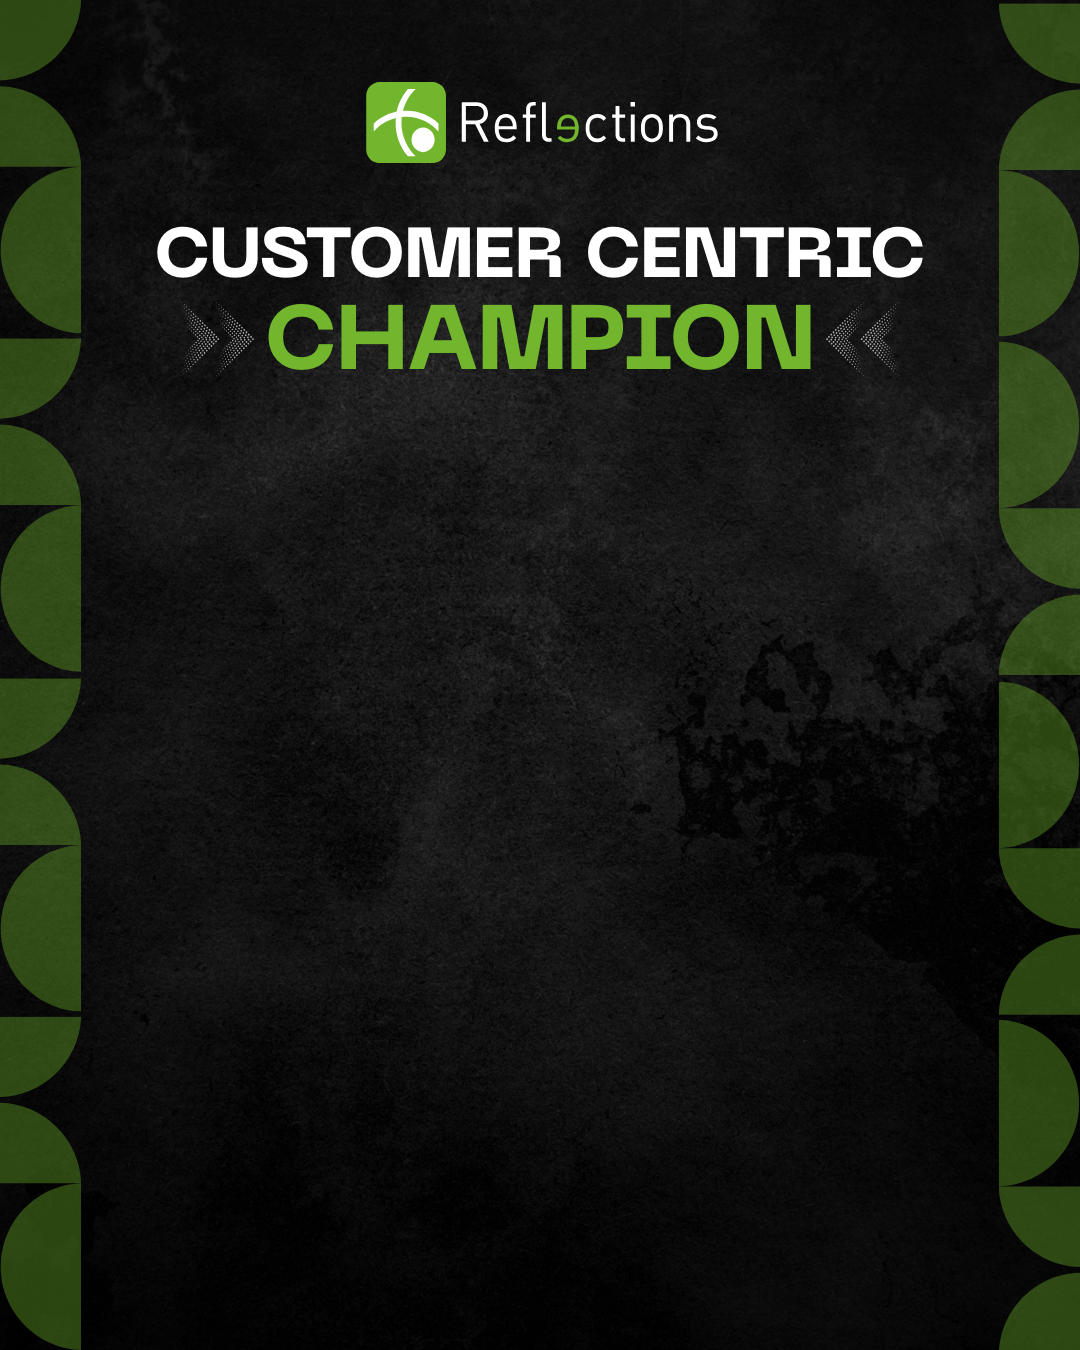
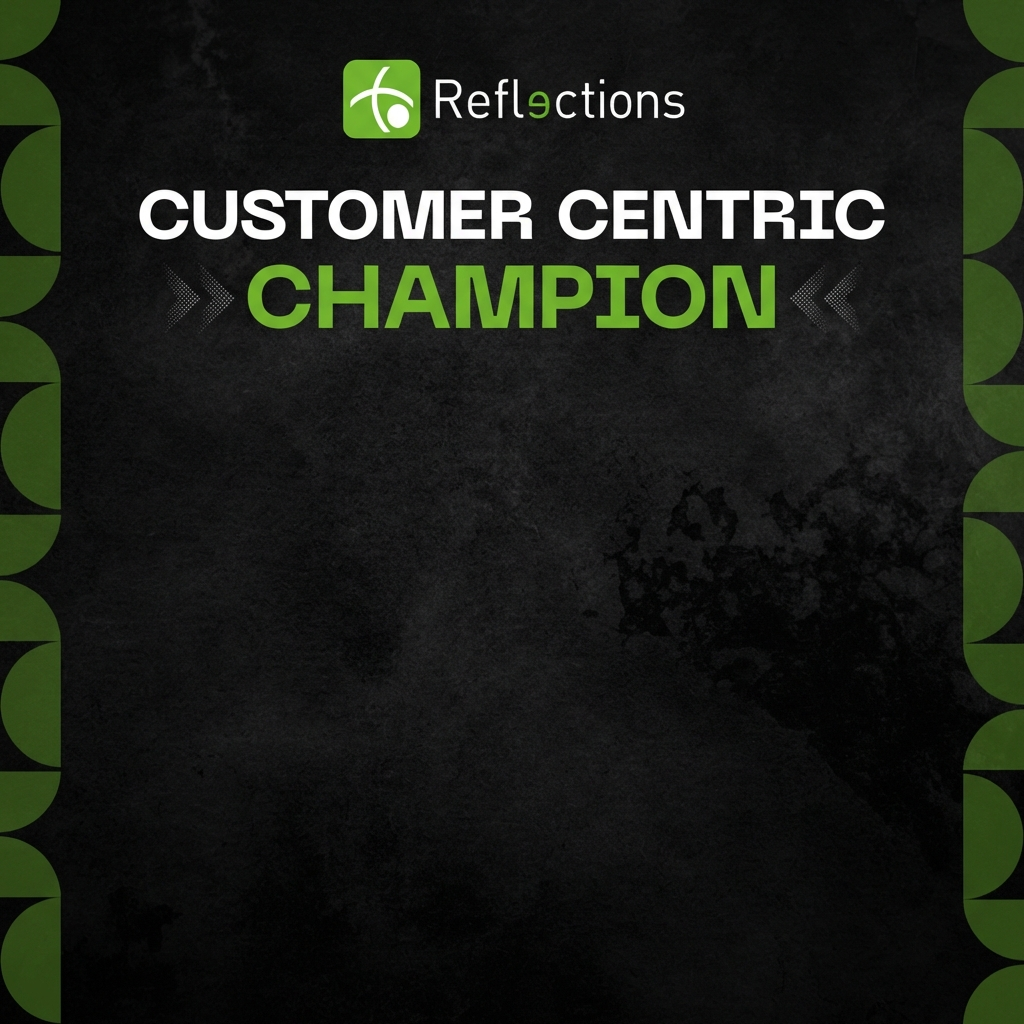
Fix: Add team-specific kudos card templates and fix image layering
- Added plural 'Champions' background images for all templates (Customer Centricity, Agility, Continuous Improvement, Collaboration, Accountability).
- Updated image-generator.ts to switch background based on recipientType.
- Refactored drawing order to ensure photos are drawn before trophy overlays for correct layering.
- Fixed missing team photo logic in Accountability template.

diff --git a/apps/frontend/lib/image-generator.ts b/apps/frontend/lib/image-generator.ts
@@ -12,6 +12,7 @@ interface KudosCardData {
   creatorName: string
   image?: File | null
   images?: File[] | null
+  recipientType?: "individual" | "team"
 }
 
 export async function generateKudosCardToCanvas(canvas: HTMLCanvasElement, data: KudosCardData): Promise<void> {
@@ -88,7 +89,12 @@ async function generateCustomerCentricChampion(
   await new Promise((resolve, reject) => {
     backgroundImg.onload = resolve
     backgroundImg.onerror = reject
-    backgroundImg.src = "/images/customer-centric-champion.png"
+    // Use plural version for team
+    if (data.recipientType === "team") {
+      backgroundImg.src = "/images/customer-centric-champions.png"
+    } else {
+      backgroundImg.src = "/images/customer-centric-champion.png"
+    }
   })
 
   // Draw background to fill entire canvas
@@ -302,7 +308,11 @@ async function generateAgilityChampion(
     await new Promise((resolve, reject) => {
       backgroundImg.onload = resolve
       backgroundImg.onerror = reject
-      backgroundImg.src = "/images/agility-champion.png"
+      if (data.recipientType === "team") {
+        backgroundImg.src = "/images/agility-champions.png"
+      } else {
+        backgroundImg.src = "/images/agility-champion.png"
+      }
     })
 
     ctx.drawImage(backgroundImg, 0, 0, canvas.width, canvas.height)
@@ -326,20 +336,18 @@ async function generateAgilityChampion(
     trophyImg.src = "/images/agility-trophy.png"
   })
 
-  const trophyWidth = 990
-  const trophyHeight = 1300
-  ctx.drawImage(trophyImg, 0, 20, trophyWidth, trophyHeight)
-
-  // Draw employee photo or team grid
+  // Draw employee photo or team grid (Draw BEFORE trophy for correct layering)
   if (data.images && data.images.length > 1) {
     await drawTeamPhotos(ctx, data, 500, 450, 400, 400, 20)
   } else {
     // Single image fallback (either data.image or data.images[0])
-    // Ensure we handle the case where data.image might be null but data.images has 1 file
     const file = data.image || (data.images && data.images[0]) || null;
-    // Create a temp data object with just the single file for the helper
     await drawEmployeePhoto(ctx, { ...data, image: file }, 500, 450, 400, 400, 20)
   }
+
+  const trophyWidth = 990
+  const trophyHeight = 1300
+  ctx.drawImage(trophyImg, 0, 20, trophyWidth, trophyHeight)
 
   // Draw content
   ctx.fillStyle = "#ffffff"
@@ -371,7 +379,11 @@ async function generateContinuousImprovementChampion(
     await new Promise((resolve, reject) => {
       backgroundImg.onload = resolve
       backgroundImg.onerror = reject
-      backgroundImg.src = "/images/continuous-improvement-champion.png"
+      if (data.recipientType === "team") {
+        backgroundImg.src = "/images/continuous-improvement-champions.png"
+      } else {
+        backgroundImg.src = "/images/continuous-improvement-champion.png"
+      }
     })
 
     ctx.drawImage(backgroundImg, 0, 0, canvas.width, canvas.height)
@@ -394,14 +406,15 @@ async function generateContinuousImprovementChampion(
     trophyImg.src = "/images/continuous-trophy.png"
   })
 
-  ctx.drawImage(trophyImg, 0, 20, 990, 1300)
-  
+  // Draw BEFORE trophy
   if (data.images && data.images.length > 1) {
       await drawTeamPhotos(ctx, data, 500, 450, 400, 400, 20)
   } else {
       const file = data.image || (data.images && data.images[0]) || null;
       await drawEmployeePhoto(ctx, { ...data, image: file }, 500, 450, 400, 400, 20)
   }
+
+  ctx.drawImage(trophyImg, 0, 20, 990, 1300)
 
   ctx.fillStyle = "#ffffff"
   drawScaledText(ctx, data.recipientName.toUpperCase(), canvas.width / 2, 960, 1000, 56, poppinsFont)
@@ -432,7 +445,11 @@ async function generateCollaborationChampion(
     await new Promise((resolve, reject) => {
       backgroundImg.onload = resolve
       backgroundImg.onerror = reject
-      backgroundImg.src = "/images/collaboration-champion.png"
+      if (data.recipientType === "team") {
+        backgroundImg.src = "/images/collaboration-champions.png"
+      } else {
+        backgroundImg.src = "/images/collaboration-champion.png"
+      }
     })
 
     ctx.drawImage(backgroundImg, 0, 0, canvas.width, canvas.height)
@@ -455,14 +472,15 @@ async function generateCollaborationChampion(
     trophyImg.src = "/images/collaboration-trophy.png"
   })
 
-  ctx.drawImage(trophyImg, 0, 20, 990, 1300)
-  
+  // Draw BEFORE trophy
   if (data.images && data.images.length > 1) {
       await drawTeamPhotos(ctx, data, 500, 450, 400, 400, 20)
   } else {
       const file = data.image || (data.images && data.images[0]) || null;
       await drawEmployeePhoto(ctx, { ...data, image: file }, 500, 450, 400, 400, 20)
   }
+
+  ctx.drawImage(trophyImg, 0, 20, 990, 1300)
 
   ctx.fillStyle = "#ffffff"
   drawScaledText(ctx, data.recipientName.toUpperCase(), canvas.width / 2, 960, 1000, 56, poppinsFont)
@@ -493,7 +511,11 @@ async function generateAccountabilityChampion(
     await new Promise((resolve, reject) => {
       backgroundImg.onload = resolve
       backgroundImg.onerror = reject
-      backgroundImg.src = "/images/accountability-champion.png"
+      if (data.recipientType === "team") {
+        backgroundImg.src = "/images/accountability-champions.png"
+      } else {
+        backgroundImg.src = "/images/accountability-champion.png"
+      }
     })
 
     ctx.drawImage(backgroundImg, 0, 0, canvas.width, canvas.height)
@@ -516,8 +538,15 @@ async function generateAccountabilityChampion(
     trophyImg.src = "/images/accountability-trophy.png"
   })
 
+  // Draw BEFORE trophy - Adding missing team logic for Accountability
+  if (data.images && data.images.length > 1) {
+       await drawTeamPhotos(ctx, data, 500, 450, 400, 400, 20)
+  } else {
+       const file = data.image || (data.images && data.images[0]) || null;
+       await drawEmployeePhoto(ctx, { ...data, image: file }, 500, 450, 400, 400, 20)
+  }
+
   ctx.drawImage(trophyImg, 0, 20, 990, 1300)
-  await drawEmployeePhoto(ctx, data, 500, 450, 400, 400, 20)
 
   ctx.fillStyle = "#ffffff"
   drawScaledText(ctx, data.recipientName.toUpperCase(), canvas.width / 2, 960, 1000, 56, poppinsFont)